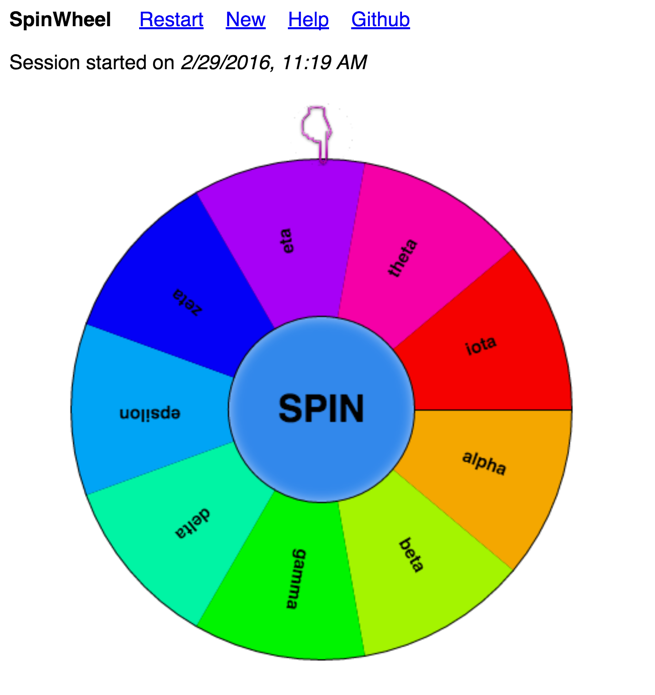
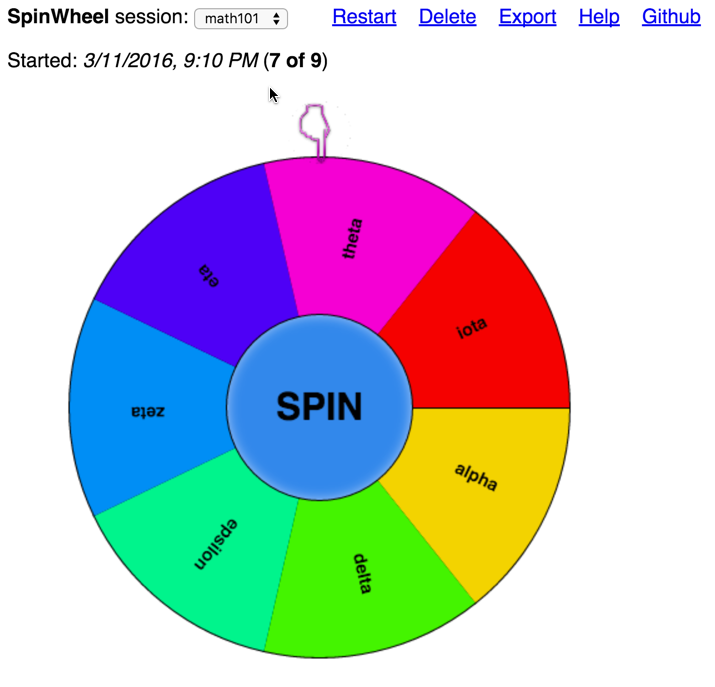
Added drop down menu, URL export

diff --git a/www/index.html b/www/index.html
@@ -23,6 +23,9 @@ function getParameterByName(name) {
 var curDate = new Date().toLocaleString().replace(/:\d{2}\s/,' ');
 
 var sessionID = getParameterByName('session') || '';
+if (sessionID == 'default')
+   sessionID = '';
+
 var maxDisplay = parseInt(getParameterByName('max')) || defaultMax;
 var minDisplay = parseInt(getParameterByName('min')) || defaultMin;
 
@@ -99,22 +102,39 @@ function wheelClearAll() {
 }
 
 function wheelClear() {
+    if (!window.confirm("Delete session "+sessionID+"?")) {
+       return;
+    }
     if (sessionID in wheelState) {
         delete wheelState[sessionID];
     }
     setState(wheelState);
+    sessionID = '';
     reloadPage();
 }
 
 function wheelRestart() {
    if (sessionID in wheelState) {
-      wheelState[sessionID]["names"] = wheelState[sessionID]["allNames"];
-      wheelState[sessionID]["time"] = curDate;
+      wheelState[sessionID].names = wheelState[sessionID].allNames;
+      wheelState[sessionID].time = curDate;
       setState(wheelState);
       reloadPage();
    }
 }
- 
+
+function wheelExport() {
+   var query = sessionID ? ('?session='+sessionID) : ''
+   if (maxDisplay != defaultMax)
+      query += (query ? '&' : '?') + 'max='+maxDisplay;
+   query += (query ? '&' : '?')+'names=';
+   query += encodeURI(wheelState[sessionID].allNames.replace(/ /g, '+'));
+   if (wheelState[sessionID].names != wheelState[sessionID].allNames) {
+      query += '&curnames=';
+      query += encodeURI(wheelState[sessionID].names.replace(/ /g, '+'));
+   }
+   $('body').text(window.location.origin+window.location.pathname+query);
+}
+
 if (getParameterByName('clearall')) {
     wheelClearAll();
 }
@@ -131,12 +151,15 @@ var displayStats = getParameterByName('stats');
 var statsObj = getStats();  
 var wheelState = getState();
 
-var curNameStr = "";  
+var curNameSpec = getParameterByName('curnames') || "";   
+
+var curNameStr = curNameSpec;
 var sessionTime = "";
 
 if (sessionID in wheelState) {
-   curNameStr = wheelState[sessionID]["names"];
-   sessionTime = wheelState[sessionID]["time"];
+   sessionTime = wheelState[sessionID].time;
+   if (!curNameSpec) 
+      curNameStr = wheelState[sessionID].names;
 }
 
 var newNameStr = getParameterByName('names');
@@ -144,28 +167,40 @@ if (!newNameStr && !curNameStr) {
     newNameStr = window.prompt("Enter comma- or semicolon-separated list of names:", "John Smith;Jane Doe;Gilgamesh") || "alpha;beta;gamma;delta;epsilon;zeta;eta;theta;iota";
 }
 
- if (newNameStr) {
+if (newNameStr) {
     var temNameList = (newNameStr.indexOf(";") > 0) ? newNameStr.split(";") : newNameStr.split(",");
     var temNames = [];
     for (var i=0; i < temNameList.length; i++) {
         temNames.push($.trim(temNameList[i]));
     }
-    curNameStr = temNames.join(";")
+    var temNameStr = temNames.join(";");
+    if (!curNameSpec) 
+       curNameStr = temNameStr;
     sessionTime = curDate;
-    wheelState[sessionID] = {names: curNameStr, allNames: curNameStr, time: sessionTime};
+    wheelState[sessionID] = {names: curNameStr, allNames: temNameStr, time: sessionTime};
     setState(wheelState);
 }
 
 if (newNameStr) {
-    if (window.confirm("Start new session "+sessionID )) {
+    if (curNameSpec) {
+       alert("Restoring session "+sessionID);
+       reloadPage();
+    } else if (window.confirm("Start new session "+sessionID )) {
        reloadPage();
     }
 }
 
-var nameList = curNameStr.split(";");
+var allNameList = wheelState[sessionID].allNames.split(";"); 
+var allNameObj = {};
+for (var i=0; i < allNameList.length; i++) {
+   allNameObj[allNameList[i]] = 1;
+}
+
+var nameList = curNameStr.split(";"); 
 var curNames = [];
 for (var i=0; i < nameList.length; i++) {
-    curNames.push(nameList[i]);
+    if (nameList[i] in allNameObj)
+       curNames.push(nameList[i]);
 }
 
 function selectRange(nitems, nportion) {
@@ -236,14 +271,39 @@ function showStats() {
 
 
 function displayWheel() {
+    $.each(wheelState, function(key, value) {   
+           $('#stateSelect')
+               .append($("<option></option>")
+               .attr("value",key)
+               .text(key?key:'default')); 
+		 });
+
+    $('#stateSelect')
+               .append($("<option></option>")
+               .attr("value","new")
+               .text("new")); 
+
+    $('#stateSelect').val(sessionID);
+
+    $('#stateSelect').change(function() {
+       var selState = $('#stateSelect :selected').val();
+       console.log("Selected state '"+selState+"'");
+       if (selState == sessionID)
+           return;
+       if (selState == 'new') {
+           selState = window.prompt('Enter new session name:');
+        }
+	sessionID = selState;
+	reloadPage();
+     });
+		 
     if (!curNames || !curNames.length)
        return;
 
     $(document).attr('title', 'SpinWheel: '+sessionID);
-    $("#sessionid").text(sessionID);
     $("#sessiontitle").text(sessionID);
     $("#sessiontime").text(sessionTime);
-    $("#sessioncount").text(curNames.length+" left");
+    $("#sessioncount").text(curNames.length+" of "+allNameList.length);
     if (displayStats) showStats();
 
     var displayRange = selectRange(curNames.length, maxDisplay);
@@ -281,7 +341,7 @@ function displayWheel() {
                 newNames.push(curNames[i]);
             }
             curNames = newNames;
-            wheelState[sessionID]["names"] = curNames.join(";");
+            wheelState[sessionID].names = curNames.join(";");
             setState(wheelState);
           }
           if (curNames.length < minDisplay) {
@@ -304,14 +364,15 @@ body { font-family:helvetica,sans-serif }
 </head>
 <body>
 
-      <b>SpinWheel</b> &nbsp;&nbsp;&nbsp;
+      <b>SpinWheel</b>
+      session: <select id="stateSelect"></select>&nbsp;&nbsp;&nbsp;&nbsp;&nbsp;&nbsp;&nbsp;
       <a href="#" onclick="wheelRestart();">Restart</a>&nbsp;&nbsp;&nbsp;
-      <a href="#" onclick="wheelClear();">New</a>&nbsp;&nbsp;&nbsp;
+      <a href="#" onclick="wheelClear();">Delete</a>&nbsp;&nbsp;&nbsp;
+      <a href="#" onclick="wheelExport();">Export</a>&nbsp;&nbsp;&nbsp;
       <a href="help.html">Help</a>&nbsp;&nbsp;&nbsp;
       <a href="https://github.com/mitotic/spinwheel">Github</a>
-     
     <p>
-    <span id="header">Session <b id="sessionid"></b> started on <em id="sessiontime"></em> (<b id="sessioncount"></b>)
+    <span id="header">Started: <em id="sessiontime"></em> (<b id="sessioncount"></b>)
     </span>
     <h3><em id="sessionrange"></em>
     </h3>

diff --git a/www/help.html b/www/help.html
@@ -48,10 +48,13 @@ selected name from the list, clicking <em>Cancel</em> will retain the name.
 names is referred to as a <em>session</em>. The default session has a
 blank name. Alternate session names are specified using the optional
 <tt>session</tt> parameter in the URL and persist indefinitely in the
-browser (using information stored in browser local
-storage). <em>Restarting</em> a session will restore the original list
-of names. <em>Clearing</em> a session will open a dialog box to enter
-a new list of names.
+browser (using information stored in browser local storage). The
+<em>drop down</em> menu may be used to switch between sessions or
+create a new session. <em>Restarting</em> a session will restore the
+original list of names. <em>Deleting</em> a session will erase it from
+the browser. (Deleting the default session will re-create it.)
+<em>Exporting</em> a session displays an URL that can be copied and
+pasted in a different browser.
 
 <p>
 <b>Sample URLs</b>:<br>
@@ -80,13 +83,15 @@ code.
 
 <p> <b>Notes:</b>
 <ol>
+<li>Reloading the page helps if the wheel does not appear. 
+</li>
 <li>The maximum length of an URL is about 2000 characters. If names are
 shortened to about 10 characters each, a maximum of about 200 names
 can be handled in the URL. For a longer list, pasting into the dialog
 box should work.
 </li>
-<li>An undocumented option <tt>stats=1</tt> can be specified to verify
-the randomness of the selection algorithm.
+<li>An undocumented option <tt>stats=1</tt> can be specified to verify 
+the randomness of the selection algorithm. 
 </li>
 </ol>
 </body> </html>
